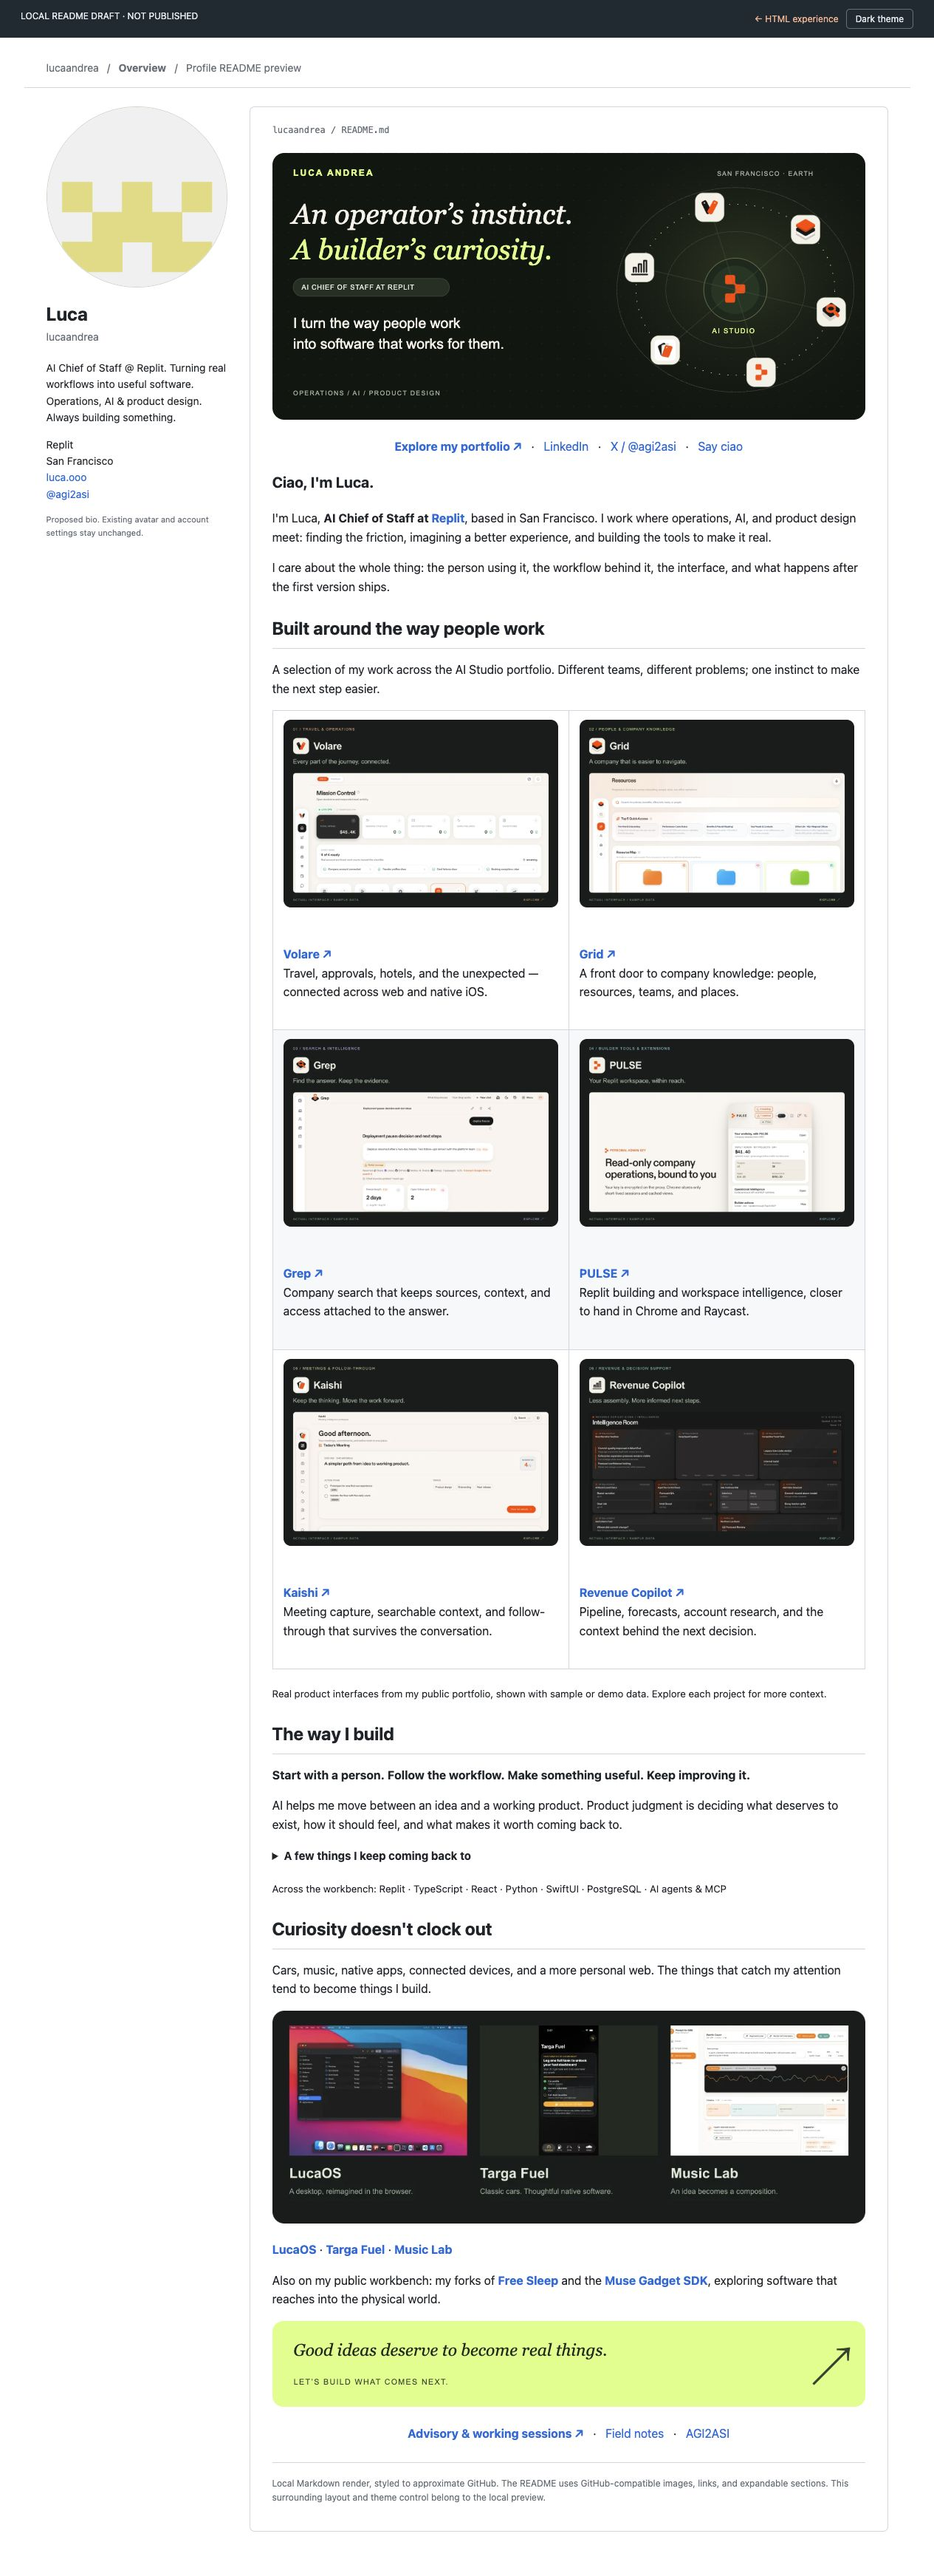
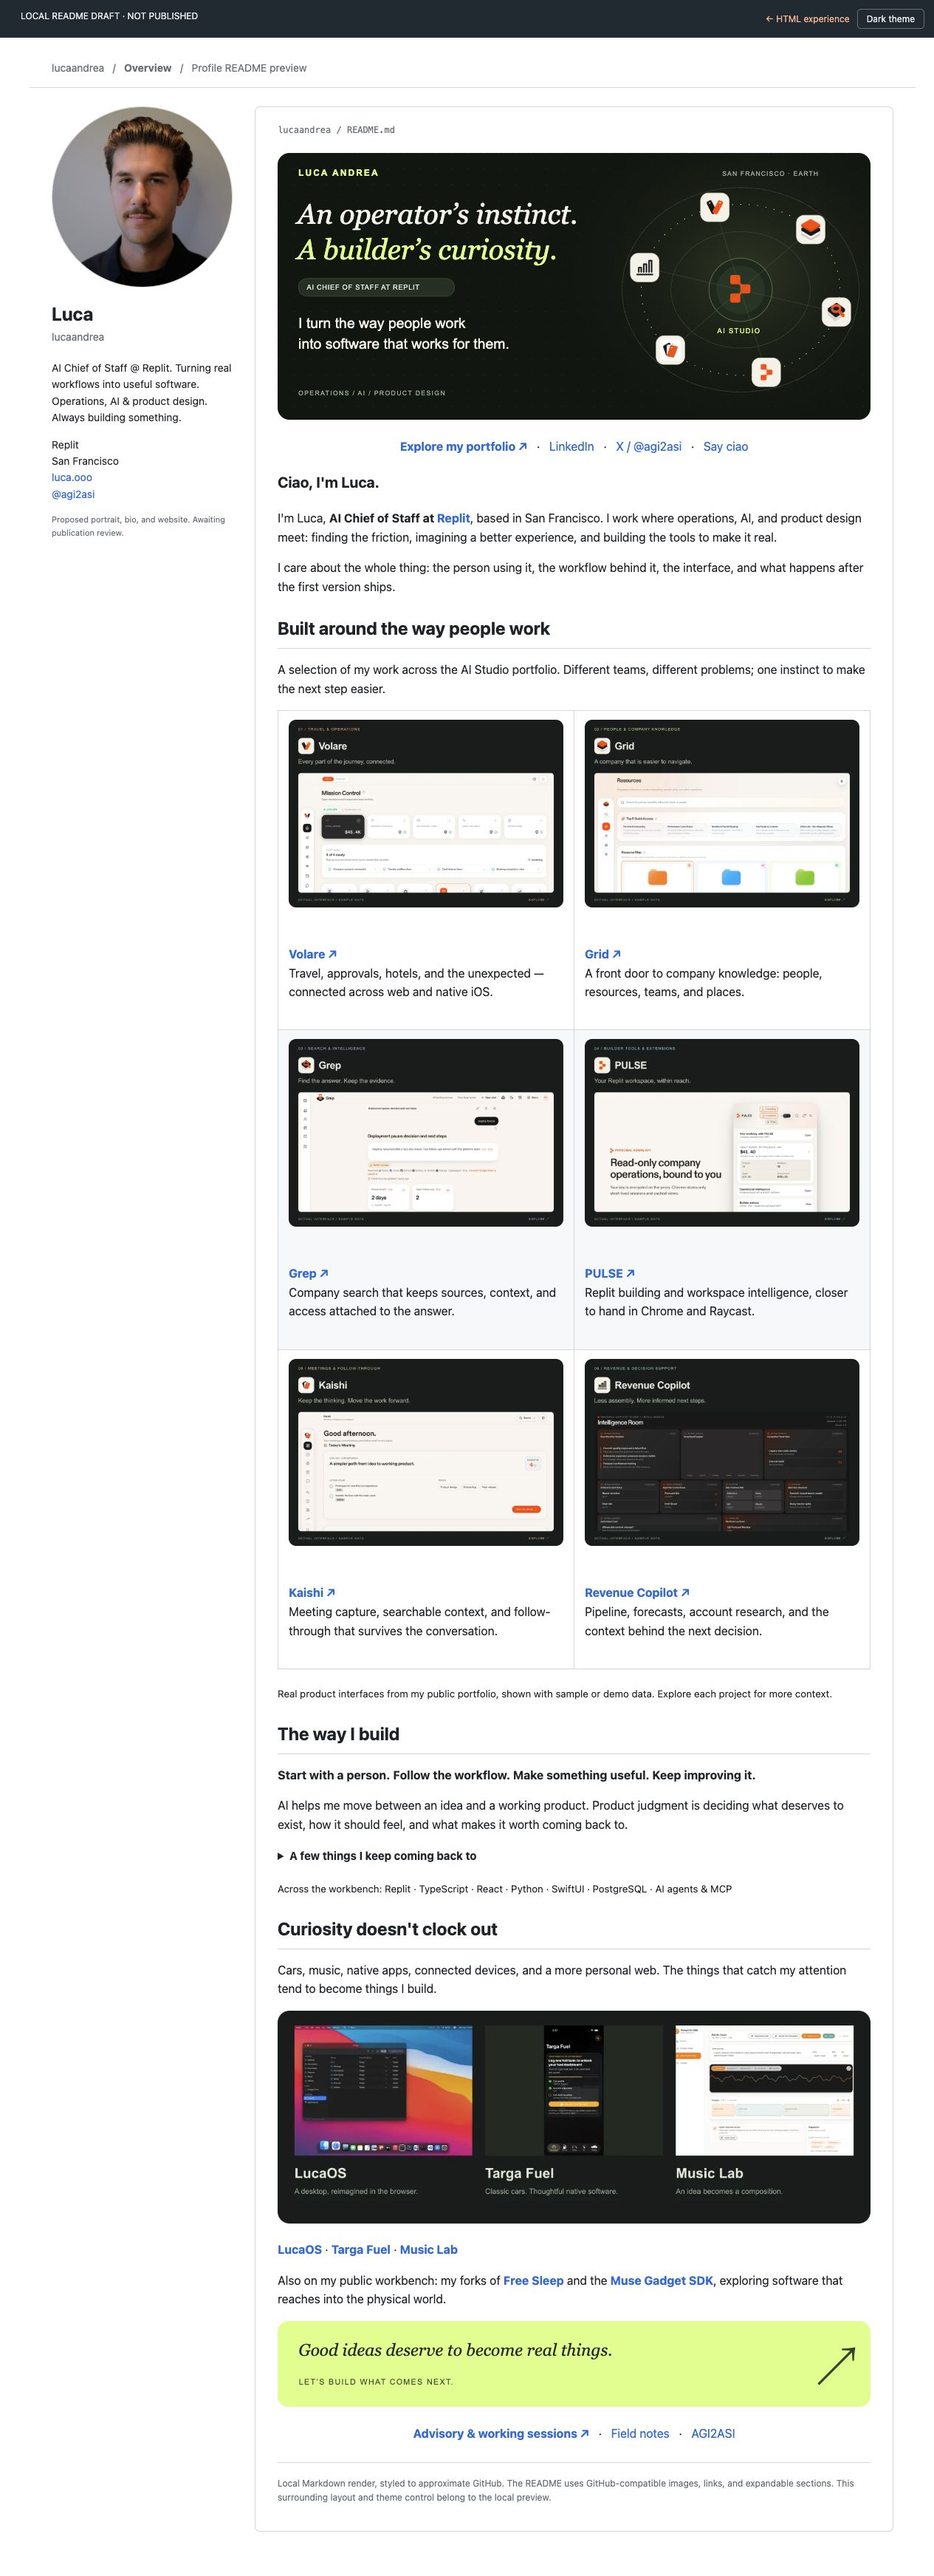
chore(profile): prepare the published portrait for review
Use the existing luca.ooo portrait in the proposed GitHub appearance, record its source hash, and refresh account settings and desktop previews. Keep the live account unchanged pending review.

diff --git a/github.html b/github.html
@@ -2,7 +2,7 @@
 <html lang="en"><head><meta charset="utf-8"><meta name="viewport" content="width=device-width,initial-scale=1"><title>Luca Andrea — GitHub README layout draft</title><style>
 :root{color-scheme:light;--bg:#fff;--ink:#1f2328;--muted:#656d76;--line:#d0d7de;--soft:#f6f8fa;--link:#0969da}*{box-sizing:border-box}body{margin:0;background:var(--bg);color:var(--ink);font:14px/1.6 -apple-system,BlinkMacSystemFont,'Segoe UI',Arial,sans-serif}a{color:var(--link);text-decoration:none}a:hover{text-decoration:underline}button{font:inherit;cursor:pointer}header{padding:12px 28px;background:#202a32;color:#e6edf3;display:flex;justify-content:space-between;gap:20px;font-size:12px}header a{color:#ffb594}header button{background:none;color:#e6edf3;border:1px solid #647080;border-radius:5px;padding:3px 12px}.nav{max-width:1200px;margin:30px auto 0;border-bottom:1px solid var(--line);padding:0 30px 14px;color:var(--muted)}.layout{display:grid;grid-template-columns:245px 1fr;gap:30px;max-width:1200px;margin:25px auto 60px;padding:0 30px}.avatar{background:#e9eedf;aspect-ratio:1;border-radius:50%;display:grid;place-items:center;font:110px Georgia,serif;color:#354a39;border:1px solid #cdd8c5}.sidebar h1{font-size:25px;margin:16px 0 0}.handle{font-size:20px;color:var(--muted);margin:0 0 20px}.sidebar p{font-size:14px}.sidebar .label{font-size:11px;color:var(--muted)}.readme{border:1px solid var(--line);border-radius:7px;padding:24px 30px;min-width:0}.filename{font:12px ui-monospace,monospace;margin:0 0 24px;color:var(--muted)}.markdown{font-size:16px;line-height:1.6}.markdown img{max-width:100%;box-sizing:content-box}.markdown h2{border-bottom:1px solid var(--line);padding-bottom:.3em;margin:24px 0 16px;font-size:24px}.markdown h3{font-size:20px}.markdown p{margin:0 0 16px}.markdown details{margin:16px 0}.markdown summary{cursor:pointer;font-size:15px}.markdown details[open] summary{margin-bottom:16px}.markdown table{display:block;max-width:100%;overflow:auto;border-collapse:collapse;margin:16px 0}.markdown td,.markdown th{border:1px solid var(--line);padding:12px 14px}.markdown td img{display:block;border-radius:10px}.markdown tr:nth-child(2n){background:var(--soft)}.markdown hr{height:3px;border:0;background:var(--line);margin:24px 0}.markdown li{margin:7px 0}.markdown a:focus-visible,summary:focus-visible{outline:3px solid #bf623f;outline-offset:3px}.notice{font-size:12px;color:var(--muted);border-top:1px solid var(--line);padding-top:18px;margin-top:25px}
 @media(max-width:850px){.layout{grid-template-columns:1fr;padding:0 20px}.sidebar{display:none}.nav{margin-top:20px;padding:0 20px 12px}.readme{padding:20px}.markdown{font-size:14px}header{padding:12px 20px;font-size:10px}.markdown table{font-size:12px}}@media(max-width:500px){.layout{padding:0 10px}.readme{padding:14px}.markdown h2{font-size:21px}.markdown img[alt*="Chief of Staff"],.markdown img[alt*="LinkedIn"],.markdown img[alt*="Follow"]{max-width:100%;margin:3px}}
-</style></head><body><header><span>LOCAL README DRAFT · NOT PUBLISHED</span><span><a href="index.html">← HTML experience</a> &nbsp; <button id="theme">Dark theme</button></span></header><div class="nav">lucaandrea &nbsp; / &nbsp; <strong>Overview</strong> &nbsp; / &nbsp; Profile README preview</div><div class="layout"><aside class="sidebar"><img class="avatar" src="https://avatars.githubusercontent.com/u/173080590?v=4" width="245" height="245" alt="Luca’s existing GitHub avatar"><h1>Luca</h1><p class="handle">lucaandrea</p><p>AI Chief of Staff @ Replit. Turning real workflows into useful software. Operations, AI & product design. Always building something.</p><p>Replit<br>San Francisco<br><a href="https://luca.ooo">luca.ooo</a><br><a href="https://x.com/agi2asi">@agi2asi</a></p><p class="label">Proposed bio. Existing avatar and account settings stay unchanged.</p></aside><main class="readme"><p class="filename">lucaandrea / README.md</p><article class="markdown"><!-- Generated by pnpm build. Edit data/profile.json and review/build-profile.mjs. -->
+</style></head><body><header><span>LOCAL README DRAFT · NOT PUBLISHED</span><span><a href="index.html">← HTML experience</a> &nbsp; <button id="theme">Dark theme</button></span></header><div class="nav">lucaandrea &nbsp; / &nbsp; <strong>Overview</strong> &nbsp; / &nbsp; Profile README preview</div><div class="layout"><aside class="sidebar"><img class="avatar" src="assets/luca.jpg" width="245" height="245" alt="Luca Andrea portrait — proposed GitHub avatar"><h1>Luca</h1><p class="handle">lucaandrea</p><p>AI Chief of Staff @ Replit. Turning real workflows into useful software. Operations, AI & product design. Always building something.</p><p>Replit<br>San Francisco<br><a href="https://luca.ooo">luca.ooo</a><br><a href="https://x.com/agi2asi">@agi2asi</a></p><p class="label">Proposed portrait, bio, and website. Awaiting publication review.</p></aside><main class="readme"><p class="filename">lucaandrea / README.md</p><article class="markdown"><!-- Generated by pnpm build. Edit data/profile.json and review/build-profile.mjs. -->
 <p><picture><source media="(max-width: 600px)" srcset="assets/hero-mobile.svg"><img src="assets/hero.svg" width="100%" alt="Luca Andrea. An operator’s instinct. A builder’s curiosity. AI Chief of Staff at Replit." /></picture></p>
 <p align="center"><a href="https://luca.ooo"><b>Explore my portfolio ↗</b></a> &nbsp; · &nbsp; <a href="https://www.linkedin.com/in/luca-andrea/">LinkedIn</a> &nbsp; · &nbsp; <a href="https://x.com/agi2asi">X / @agi2asi</a> &nbsp; · &nbsp; <a href="mailto:ciao@luca.ooo">Say ciao</a></p>
 <h3 id="ciao-im-luca">Ciao, I'm Luca.</h3>

diff --git a/PROFILE_SETTINGS.md b/PROFILE_SETTINGS.md
@@ -15,8 +15,10 @@ AI Chief of Staff @ Replit. Turning real workflows into useful software. Operati
 
 **Website:** https://luca.ooo
 
-The existing avatar, display name, company, location, and social links are
-preserved. The account bio and website were empty when checked on October 14,
+**Avatar:** [Existing public portrait](assets/luca.jpg) from
+https://luca.ooo/images/luca.jpg, unchanged at 400 × 400 pixels.
+
+The existing display name, company, location, and social links are preserved. The account bio and website were empty when checked on October 14,
 2026. `data/profile.json` contains the exact proposed field values.
 
 ## Activation after review
@@ -26,7 +28,7 @@ preserved. The account bio and website were empty when checked on October 14,
    repository and its existing September draft history, including the earlier
    product descriptions and artwork provenance. It does not expose the source
    repositories for the featured products.
-3. Apply only the proposed bio and website fields to the `lucaandrea` account.
+3. Apply the proposed portrait, bio, and website fields to the `lucaandrea` account.
 4. Verify the public profile while signed out, including the header, all six
    product images, experiment artwork, and mobile sources.
 

diff --git a/REVIEW.md b/REVIEW.md
@@ -9,7 +9,7 @@ publication review described in [PROFILE_SETTINGS.md](PROFILE_SETTINGS.md).
   cards, a concise first-person introduction, an approach disclosure, a personal
   project gallery, and direct portfolio/contact links.
 - `github.html` approximates GitHub's surrounding layout in light and dark
-  themes, using the existing public avatar and proposed account bio.
+  themes, using the proposed public-portfolio portrait and account bio.
 - `index.html` is an optional interactive portfolio preview with filters,
   project stories, keyboard support, and light/dark themes.
 - `responsive.html` provides a phone frame for either preview.
@@ -66,6 +66,9 @@ solo authorship of upstream open-source projects.
 for nine unchanged source screenshots from `luca.ooo/images/work/`. These are
 already published sample/demo captures, not newly captured production views.
 Generated project cards crop those captures to a consistent presentation frame.
+
+`data/portrait-source.json` records the unchanged portrait already published
+on luca.ooo, proposed as the GitHub avatar.
 
 `data/asset-sources.json` retains the September provenance for the existing
 product marks. `review/build-visuals.mjs` uses those marks to generate the SVG
